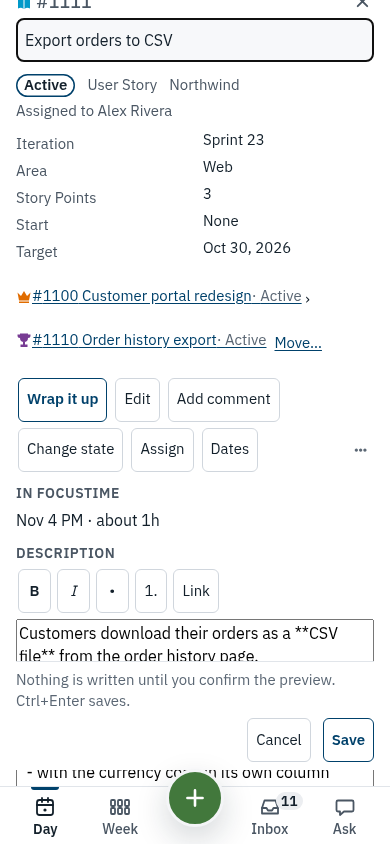
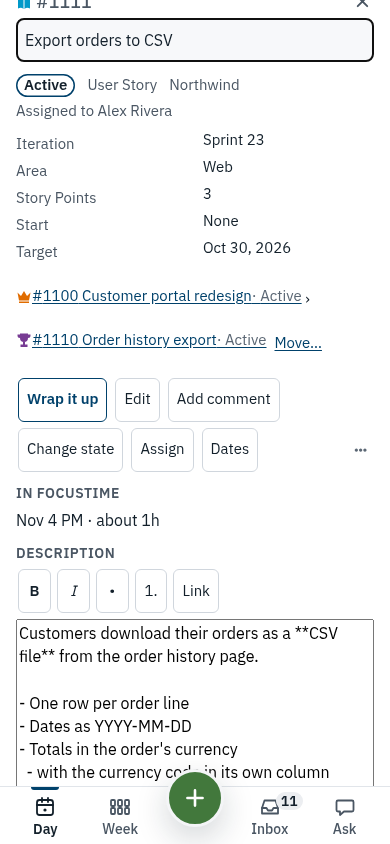
ED-1 review 1: the log reads text not HTML, one Save while DevOps changed, the phone's save bar after the boxes
Claude-Session: https://claude.ai/code/session_01MZF2GqqHYS7xuP5Ahc1YJE

Changed region(s): [[0.0308, 0.8009, 0.8615, 0.8934], [0.6462, 0.8626, 0.7692, 0.8934], [0.8615, 0.8626, 0.9231, 0.8934]]

diff --git a/e2e/ed1-edit-item.test.ts b/e2e/ed1-edit-item.test.ts
@@ -128,6 +128,8 @@ describe.skipIf(!CHROMIUM)("ED-1 edit an item on its story card (browser, demo m
       await row.getByRole("button", { name: "Undo" }).click();
       await confirmPreview(page);
     }
+    // The log reads a description as its words, never its HTML.
+    await expect(wl.locator("tr", { hasText: "#1111" }).first().textContent()).resolves.not.toMatch(/<(div|ul|li|strong)/);
     if (SHOTS) await shot(page, "write-log");
     const back = await call(page, "devops.edit_offer", { clientKey: "Northwind", itemId: 1111 });
     expect(back.data.offer.title).toBe("Export ordres to CSV");
@@ -187,6 +189,8 @@ describe.skipIf(!CHROMIUM)("ED-1 edit an item on its story card (browser, demo m
     await expect(banner.textContent()).resolves.toContain("This changed in DevOps since you opened it");
     await expect(card.getByRole("textbox", { name: "Title" }).inputValue()).resolves.toBe("Map of stores near me");
     expect((await log(page)).filter((e) => e.itemId === 1151 && e.status === "confirmed").length).toBe(0);
+    // One way on: the banner's Save again (the foot's Save goes while it shows).
+    await expect(card.locator(".sc-save").getByRole("button", { name: "Save", exact: true }).count()).resolves.toBe(0);
     if (SHOTS) await shot(page, "changed-since");
     await banner.getByRole("button", { name: "Save again" }).click();
     await confirmPreview(page);
@@ -264,6 +268,8 @@ describe.skipIf(!CHROMIUM)("ED-1 edit an item on its story card (browser, demo m
     expect(wide).toBeLessThanOrEqual(0);
     const cardWide = await card.evaluate((el) => el.scrollWidth - el.clientWidth);
     expect(cardWide).toBeLessThanOrEqual(0);
+    // The save bar sits after the boxes on the phone, never over them.
+    await expect(card.locator(".sc-save").evaluate((el) => getComputedStyle(el).position)).resolves.toBe("static");
     const save = await card.getByRole("button", { name: "Save", exact: true }).boundingBox();
     expect(save!.height).toBeGreaterThanOrEqual(44);
     const tb = await card.getByRole("textbox", { name: "Title" }).boundingBox();

diff --git a/ui/DevOpsWrite.tsx b/ui/DevOpsWrite.tsx
@@ -453,7 +453,13 @@ export function CreateInDevOps({ drafts, label }: { drafts: DraftStory[]; label?
 
 const OP_WORD: Record<string, string> = { state: "State changed", comment: "Comment added", create: "Created", target_date: "Target date set", undo_state: "Undo: state put back", undo_comment: "Undo: comment deleted", undo_create: "Undo: set to Removed", undo_target_date: "Undo: target date put back", description: "Description changed", undo_description: "Undo: description put back", fields: "Dates, size or owner changed", item_edit: "Edited", undo_item_edit: "Undo: edit put back", reparent: "Moved", undo_reparent: "Undo: moved back", undo_fields: "Undo: dates, size and owner put back", feedback: "Feedback sent" };
 const DW_STATUS: Record<string, string> = { pending: "Not finished", confirmed: "Confirmed", unconfirmed: "Not confirmed", failed: "Failed", refused: "Refused" };
-const fmt = (v: Record<string, string | null>) => Object.entries(v).map(([k, x]) => `${k}: ${x ?? "(empty)"}`).join(", ");
+/** ED-1: a description's HTML reads as its words in the log, cut to a line (the full text stays in the entry for Undo). */
+const plainLine = (x: string) => {
+  const t = /<[a-z]/i.test(x) ? x.replace(/<(br|\/div|\/p|\/li|\/h[1-6])\b[^>]*>/gi, " ").replace(/<[^>]+>/g, "").replace(/&nbsp;/g, " ").replace(/&lt;/g, "<").replace(/&gt;/g, ">").replace(/&quot;/g, '"').replace(/&#39;/g, "'").replace(/&amp;/g, "&") : x;
+  const one = t.replace(/\s+/g, " ").trim();
+  return one.length > 140 ? `${one.slice(0, 139)}…` : one;
+};
+const fmt = (v: Record<string, string | null>) => Object.entries(v).map(([k, x]) => `${k}: ${x === null || x === "" ? "(empty)" : plainLine(x)}`).join(", ");
 
 /** Settings > Data (step 14): every DevOps write, newest first, with the values before and after, Undo and Retry. */
 export function DevOpsWriteLog(): ReactNode {

diff --git a/ui/StoryCard.tsx b/ui/StoryCard.tsx
@@ -426,13 +426,18 @@ export function StoryCard({ clientKey, itemId, onClose, onWrapUp }: { clientKey:
                     </p>
                   ) : (
                     <>
-                      <span className="muted">Nothing is written until you confirm the preview. Ctrl+Enter saves.</span>
+                      <span className="muted">
+                        Nothing is written until you confirm the preview.<span className="sc-save-key"> Ctrl+Enter saves.</span>
+                      </span>
                       <button type="button" className="mini" onClick={cancelEdit}>
                         Cancel
                       </button>
-                      <button type="button" className="mini primary" disabled={!draft.title.trim()} onClick={() => saveEdit()}>
-                        Save
-                      </button>
+                      {/* While DevOps has a newer version, the banner's Save again is the one way on. */}
+                      {!stale && (
+                        <button type="button" className="mini primary" disabled={!draft.title.trim()} onClick={() => saveEdit()}>
+                          Save
+                        </button>
+                      )}
                     </>
                   )}
                 </div>

diff --git a/ui/styles.css b/ui/styles.css
@@ -6299,6 +6299,8 @@ textarea::-webkit-scrollbar-thumb:hover { background-color: color-mix(in oklab, 
 .sc-discard span { margin-right: auto; font-weight: 600; }
 .sc-changed { display: grid; gap: 6px; padding: 8px 10px; border: 1px solid var(--watch); border-radius: 8px; }
 .sc-changed p { margin: 0; }
+.sc-changed-how { font-size: var(--fs-2); color: var(--text-muted); }
+@media (pointer: coarse) { .sc-save-key { display: none; } }
 .sc-changed-now { margin: 0; display: grid; grid-template-columns: max-content 1fr; gap: 4px 12px; font-size: var(--fs-2); overflow-wrap: anywhere; }
 .sc-changed-now dt { color: var(--text-muted); font-weight: 500; }
 .sc-changed-now dd { margin: 0; min-width: 0; }
@@ -6349,6 +6351,7 @@ textarea::-webkit-scrollbar-thumb:hover { background-color: color-mix(in oklab, 
   .sc-light-box { font-size: 16px; }
   .dw-looks { grid-template-columns: 1fr; }
   .sc-changed-now { grid-template-columns: 1fr; }
+  .sc-save { position: static; }
   .sc-more-menu button { min-height: 44px; }
 }
 

diff --git a/ui/StoryCardEdit.tsx b/ui/StoryCardEdit.tsx
@@ -255,6 +255,7 @@ export function ChangedSince({ now, onUse, children }: { now: EditOffer; onUse: 
         )}
       </dl>
       {children}
+      <p className="sc-changed-how">Save again shows your words against what DevOps has now, in the preview, before anything is written.</p>
       <div className="sc-edit-acts start">
         <button type="button" className="mini primary" onClick={onUse}>
           Save again
